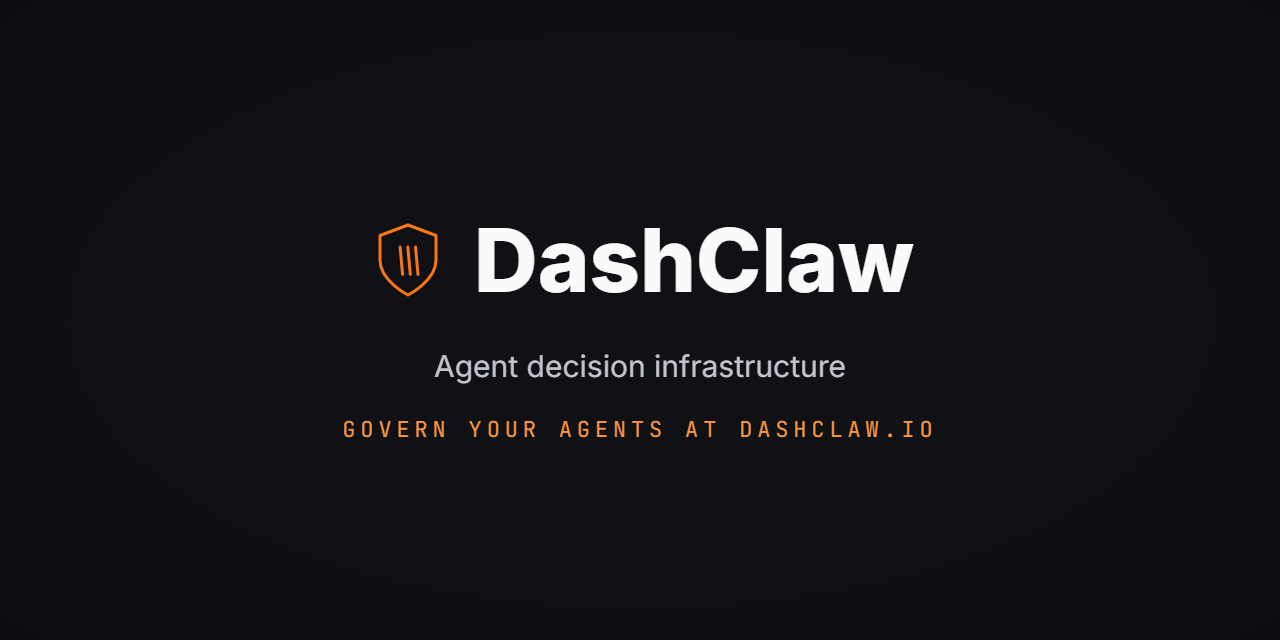
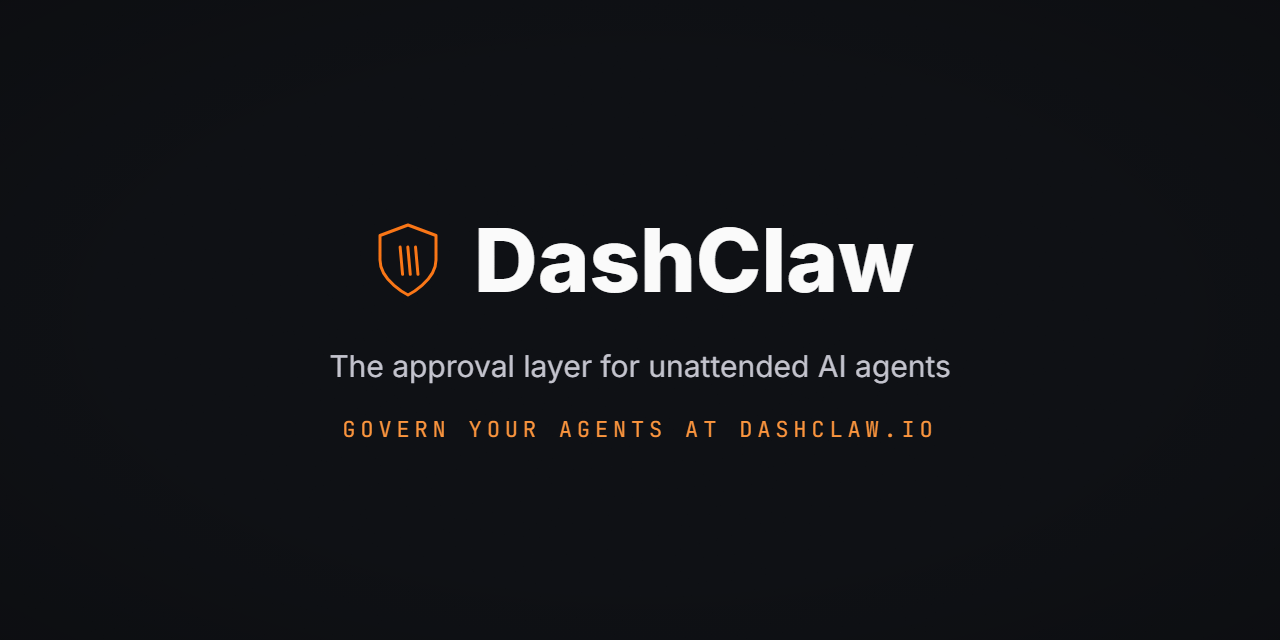
release: 5.33.11 positioning copy, one sentence everywhere
Site title, OG/Twitter titles and alt, hero H1, README opening line and the three social cards all say "the approval layer for unattended AI agents". Runtime list leads with OpenClaw and Hermes alongside Claude Code and Codex; the signed decision ledger is the second beat. Meta descriptions rewritten in plain language. Platform-only bump, SDKs not republished.

Claude-Session: https://claude.ai/code/session_01Nga9qxxsJUm2mhcKypufKd

Changed region(s): [[0.25, 0.5312, 0.75, 0.5938]]

diff --git a/app/layout.tsx b/app/layout.tsx
@@ -18,10 +18,10 @@ const inter = localFont({
 export const metadata: Metadata = {
   metadataBase: new URL('https://www.dashclaw.io'),
   title: {
-    default: 'DashClaw, the governance runtime for AI agents',
+    default: 'DashClaw, the approval layer for unattended AI agents',
     template: '%s - DashClaw',
   },
-  description: 'DashClaw evaluates agent actions against policy, routes risky work to human approval, and records audit evidence. Installed hooks and supported gateways can halt calls before execution.',
+  description: 'Stop risky agent actions before they run and approve them from your phone. Works with OpenClaw, Hermes, Claude Code, Codex and MCP. Every decision lands in a signed ledger.',
   icons: {
     icon: [
       { url: '/favicons/favicon-16x16.png', sizes: '16x16', type: 'image/png' },
@@ -31,8 +31,8 @@ export const metadata: Metadata = {
   },
   manifest: '/config/site.webmanifest',
   openGraph: {
-    title: 'DashClaw, the governance runtime for AI agents',
-    description: 'DashClaw evaluates agent actions against policy, routes risky work to human approval, and records audit evidence. Installed hooks and supported gateways can halt calls before execution.',
+    title: 'DashClaw, the approval layer for unattended AI agents',
+    description: 'Stop risky agent actions before they run and approve them from your phone. Works with OpenClaw, Hermes, Claude Code, Codex and MCP. Every decision lands in a signed ledger.',
     url: 'https://www.dashclaw.io',
     siteName: 'DashClaw',
     type: 'website',
@@ -41,14 +41,14 @@ export const metadata: Metadata = {
         url: '/social/og-image.png',
         width: 1200,
         height: 630,
-        alt: 'DashClaw, the governance runtime for AI agents',
+        alt: 'DashClaw, the approval layer for unattended AI agents',
       },
     ],
   },
   twitter: {
     card: 'summary_large_image',
-    title: 'DashClaw, the governance runtime for AI agents',
-    description: 'DashClaw evaluates agent actions against policy, routes risky work to human approval, and records audit evidence. Installed hooks and supported gateways can halt calls before execution.',
+    title: 'DashClaw, the approval layer for unattended AI agents',
+    description: 'Stop risky agent actions before they run and approve them from your phone. Works with OpenClaw, Hermes, Claude Code, Codex and MCP. Every decision lands in a signed ledger.',
     images: ['/social/twitter-card.png'],
   },
 }

diff --git a/app/page.tsx b/app/page.tsx
@@ -32,7 +32,7 @@ import JsonLd from './components/JsonLd';
 export const metadata: Metadata = marketingPageMetadata({
   title: 'DashClaw, the approval layer for unattended AI agents',
   description:
-    'Put a policy checkpoint in front of destructive agent calls. Installed hooks, OpenClaw, and bounded capability invocation can halt work for human approval before execution.',
+    'Stop risky agent actions before they run and approve them from your phone. Works with OpenClaw, Hermes, Claude Code, Codex and MCP. Every decision lands in a signed ledger.',
   path: '/',
 });
 
@@ -142,7 +142,7 @@ export default function LandingPage() {
               '@type': 'SoftwareApplication',
               name: 'DashClaw',
               description:
-                'A governance runtime that evaluates agent actions, records audit evidence, and can halt supported hook, OpenClaw, and bounded capability calls for human approval before execution.',
+                'An approval layer for unattended AI agents. Supported hooks and gateways (OpenClaw, Hermes, Claude Code, Codex, MCP) halt risky actions for human approval before execution, and every decision is recorded in a signed ledger.',
               url: 'https://www.dashclaw.io',
               applicationCategory: 'DeveloperApplication',
               operatingSystem: 'Any',
@@ -166,7 +166,7 @@ export default function LandingPage() {
           <div className="max-w-6xl mx-auto grid grid-cols-1 lg:grid-cols-[1.05fr_1fr] gap-12 lg:gap-16 items-center">
             <div>
               <h1 className="text-4xl sm:text-5xl xl:text-[3.25rem] font-bold tracking-tight leading-[1.08] text-text-primary [text-wrap:balance]">
-                Remote approvals for unattended agent runs.
+                Remote approvals for unattended agent runs. A signed record of every decision.
               </h1>
               <p className="mt-6 text-lg text-text-secondary leading-relaxed max-w-xl">
                 Let the routine work continue. Review the actions your policies

diff --git a/app/lib/marketingSeo.ts b/app/lib/marketingSeo.ts
@@ -85,7 +85,7 @@ export function marketingPageMetadata({
           url: '/social/og-image.png',
           width: 1200,
           height: 630,
-          alt: 'DashClaw, the governance runtime for AI agents',
+          alt: 'DashClaw, the approval layer for unattended AI agents',
         },
       ],
     },

diff --git a/docs/DECISIONS.md b/docs/DECISIONS.md
@@ -1,5 +1,17 @@
 # Decision log
 
+## 2026-09-05 - One positioning sentence everywhere: "the approval layer for unattended AI agents"
+
+Set while preparing the Product Hunt launch (v5.33.11). Three different framings were live at once: the site title said "approval layer for unattended AI agents", the OG card said "Agent decision infrastructure", and the README opened on "your AI coding agent". Wes's call, in order of what he rejected:
+
+- **Not "coding agent" as the lead.** DashClaw enforces fail-closed on OpenClaw and Hermes as well as Claude Code and Codex, and the story that matters is an agent about to spend money or touch production, not only a bad shell command. Coding agents stay in the runtime list, never in the headline. Every local runtime already has a permission prompt for the person at the keyboard, so leading with coding agents invites "Claude Code already asks me".
+- **Not a story hook as the tagline.** "My agent tried to buy a domain at 2am. I got a yes/no first" was rejected. The tagline is plain and descriptive; the story goes in the launch comment.
+- **Not "observability" or "compliance" as the lead.** Those words put DashClaw in a lineup with tracing tools and enterprise suites. The specific nouns are used instead: signed decision ledger, replayable decision records, stated confidence scored against outcome. It is the second beat after "stop it and ask a human", never the first.
+
+Result: the title tag, OG and Twitter titles, OG alt text, hero H1, README opening line and the three social cards all carry the one sentence. Card tagline source of truth is `brands/dashclaw.json` in the animations repo; `render-dashclaw-statics.mjs` reads it.
+
+Files: `app/layout.tsx`, `app/page.tsx`, `app/lib/marketingSeo.ts`, `README.md`, `public/social/*.png`
+
 ## 2026-09-01 - Plan authority is pinned by content hash; the attest seam fails closed before the first model call
 
 v5.28.0 closes the gap between "the operator approved a plan" and "this run is still entitled to act on it." Adapted from memcode's pinned-content model.

diff --git a/CHANGELOG.md b/CHANGELOG.md
@@ -13,6 +13,19 @@ Through 3.x the platform and the SDKs versioned independently, which is why olde
 
 ## [Unreleased]
 
+## [5.33.11] - 2026-09-05
+
+### Changed
+
+- Positioning copy now says one thing everywhere: "the approval layer for unattended AI agents". Site default title, OpenGraph and Twitter titles, OG alt text, landing hero H1 and the README opening line all use it. The runtime list leads with OpenClaw and Hermes alongside Claude Code and Codex instead of "coding agent", and the signed decision ledger is named as the second beat.
+- Landing and site meta descriptions replaced with plain language (the previous copy said "bounded capability invocation").
+- Regenerated `public/social/og-image.png`, `twitter-card.png` and `github-social-preview.png` with the new tagline. Source of truth for the card tagline is `brands/dashclaw.json` in the animations repo.
+
+### Release notes
+
+- Platform-only shared-version bump to 5.33.11. Node and Python SDK source is unchanged, so `dashclaw` is intentionally not republished to npm or PyPI.
+- Use the GitHub release tag `platform-v5.33.11` for the same reason as 5.33.10.
+
 ## [5.33.10] - 2026-09-05
 
 ### Removed

diff --git a/README.md b/README.md
@@ -3,7 +3,7 @@
 
   <h1>DashClaw</h1>
 
-  <p><strong>With a supported enforcement integration, when your AI coding agent tries something destructive, DashClaw catches it before it runs and asks you first, even when you are not at the keyboard.</strong></p>
+  <p><strong>With a supported enforcement integration, when your AI agent (OpenClaw, Hermes, Claude Code, Codex) tries something destructive or expensive, DashClaw catches it before it runs and asks you first, even when you are not at the keyboard. Every decision lands in a signed ledger.</strong></p>
 
   <p>Run agents unattended without giving them unconditional authority.</p>
 
